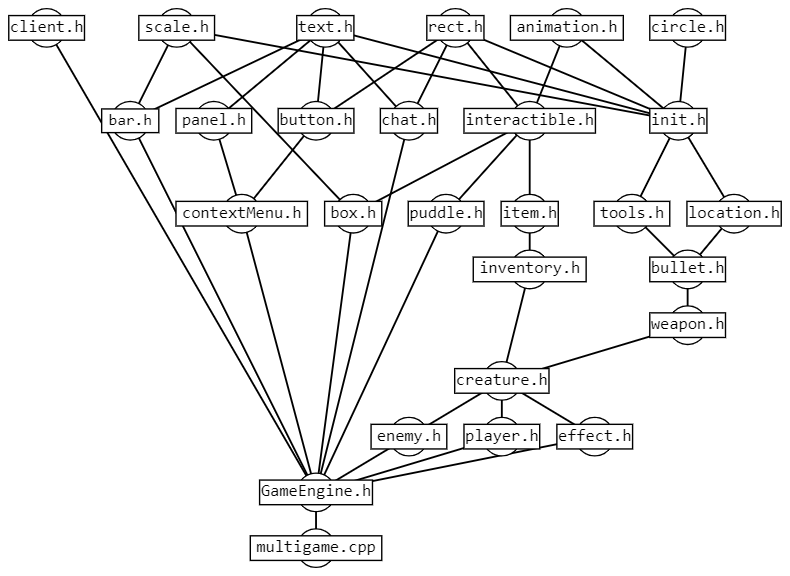
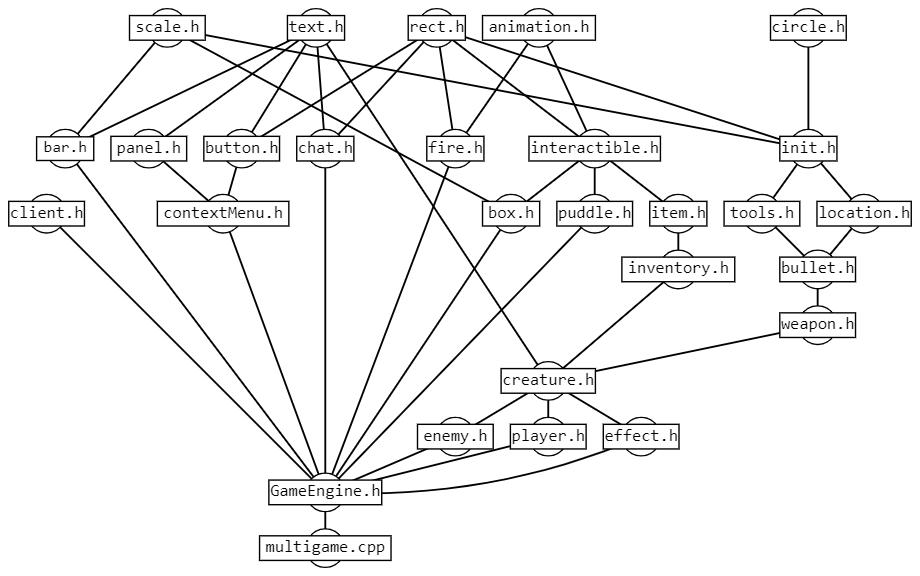
changed inclusions

diff --git a/Headers/init.h b/Headers/init.h
@@ -11,8 +11,6 @@
 #include "scale.h"
 #include "rect.h"
 #include "circle.h"
-#include "animation.h"
-#include "text.h"
 
 namespace faction {
     using Type = sf::Uint8;

diff --git a/Headers/creature.h b/Headers/creature.h
@@ -1,6 +1,7 @@
 #pragma once
 #include "weapon.h"
 #include "inventory.h"
+#include "text.h"
 
 ////////////////////////////////////////////////////////////
 // Class
